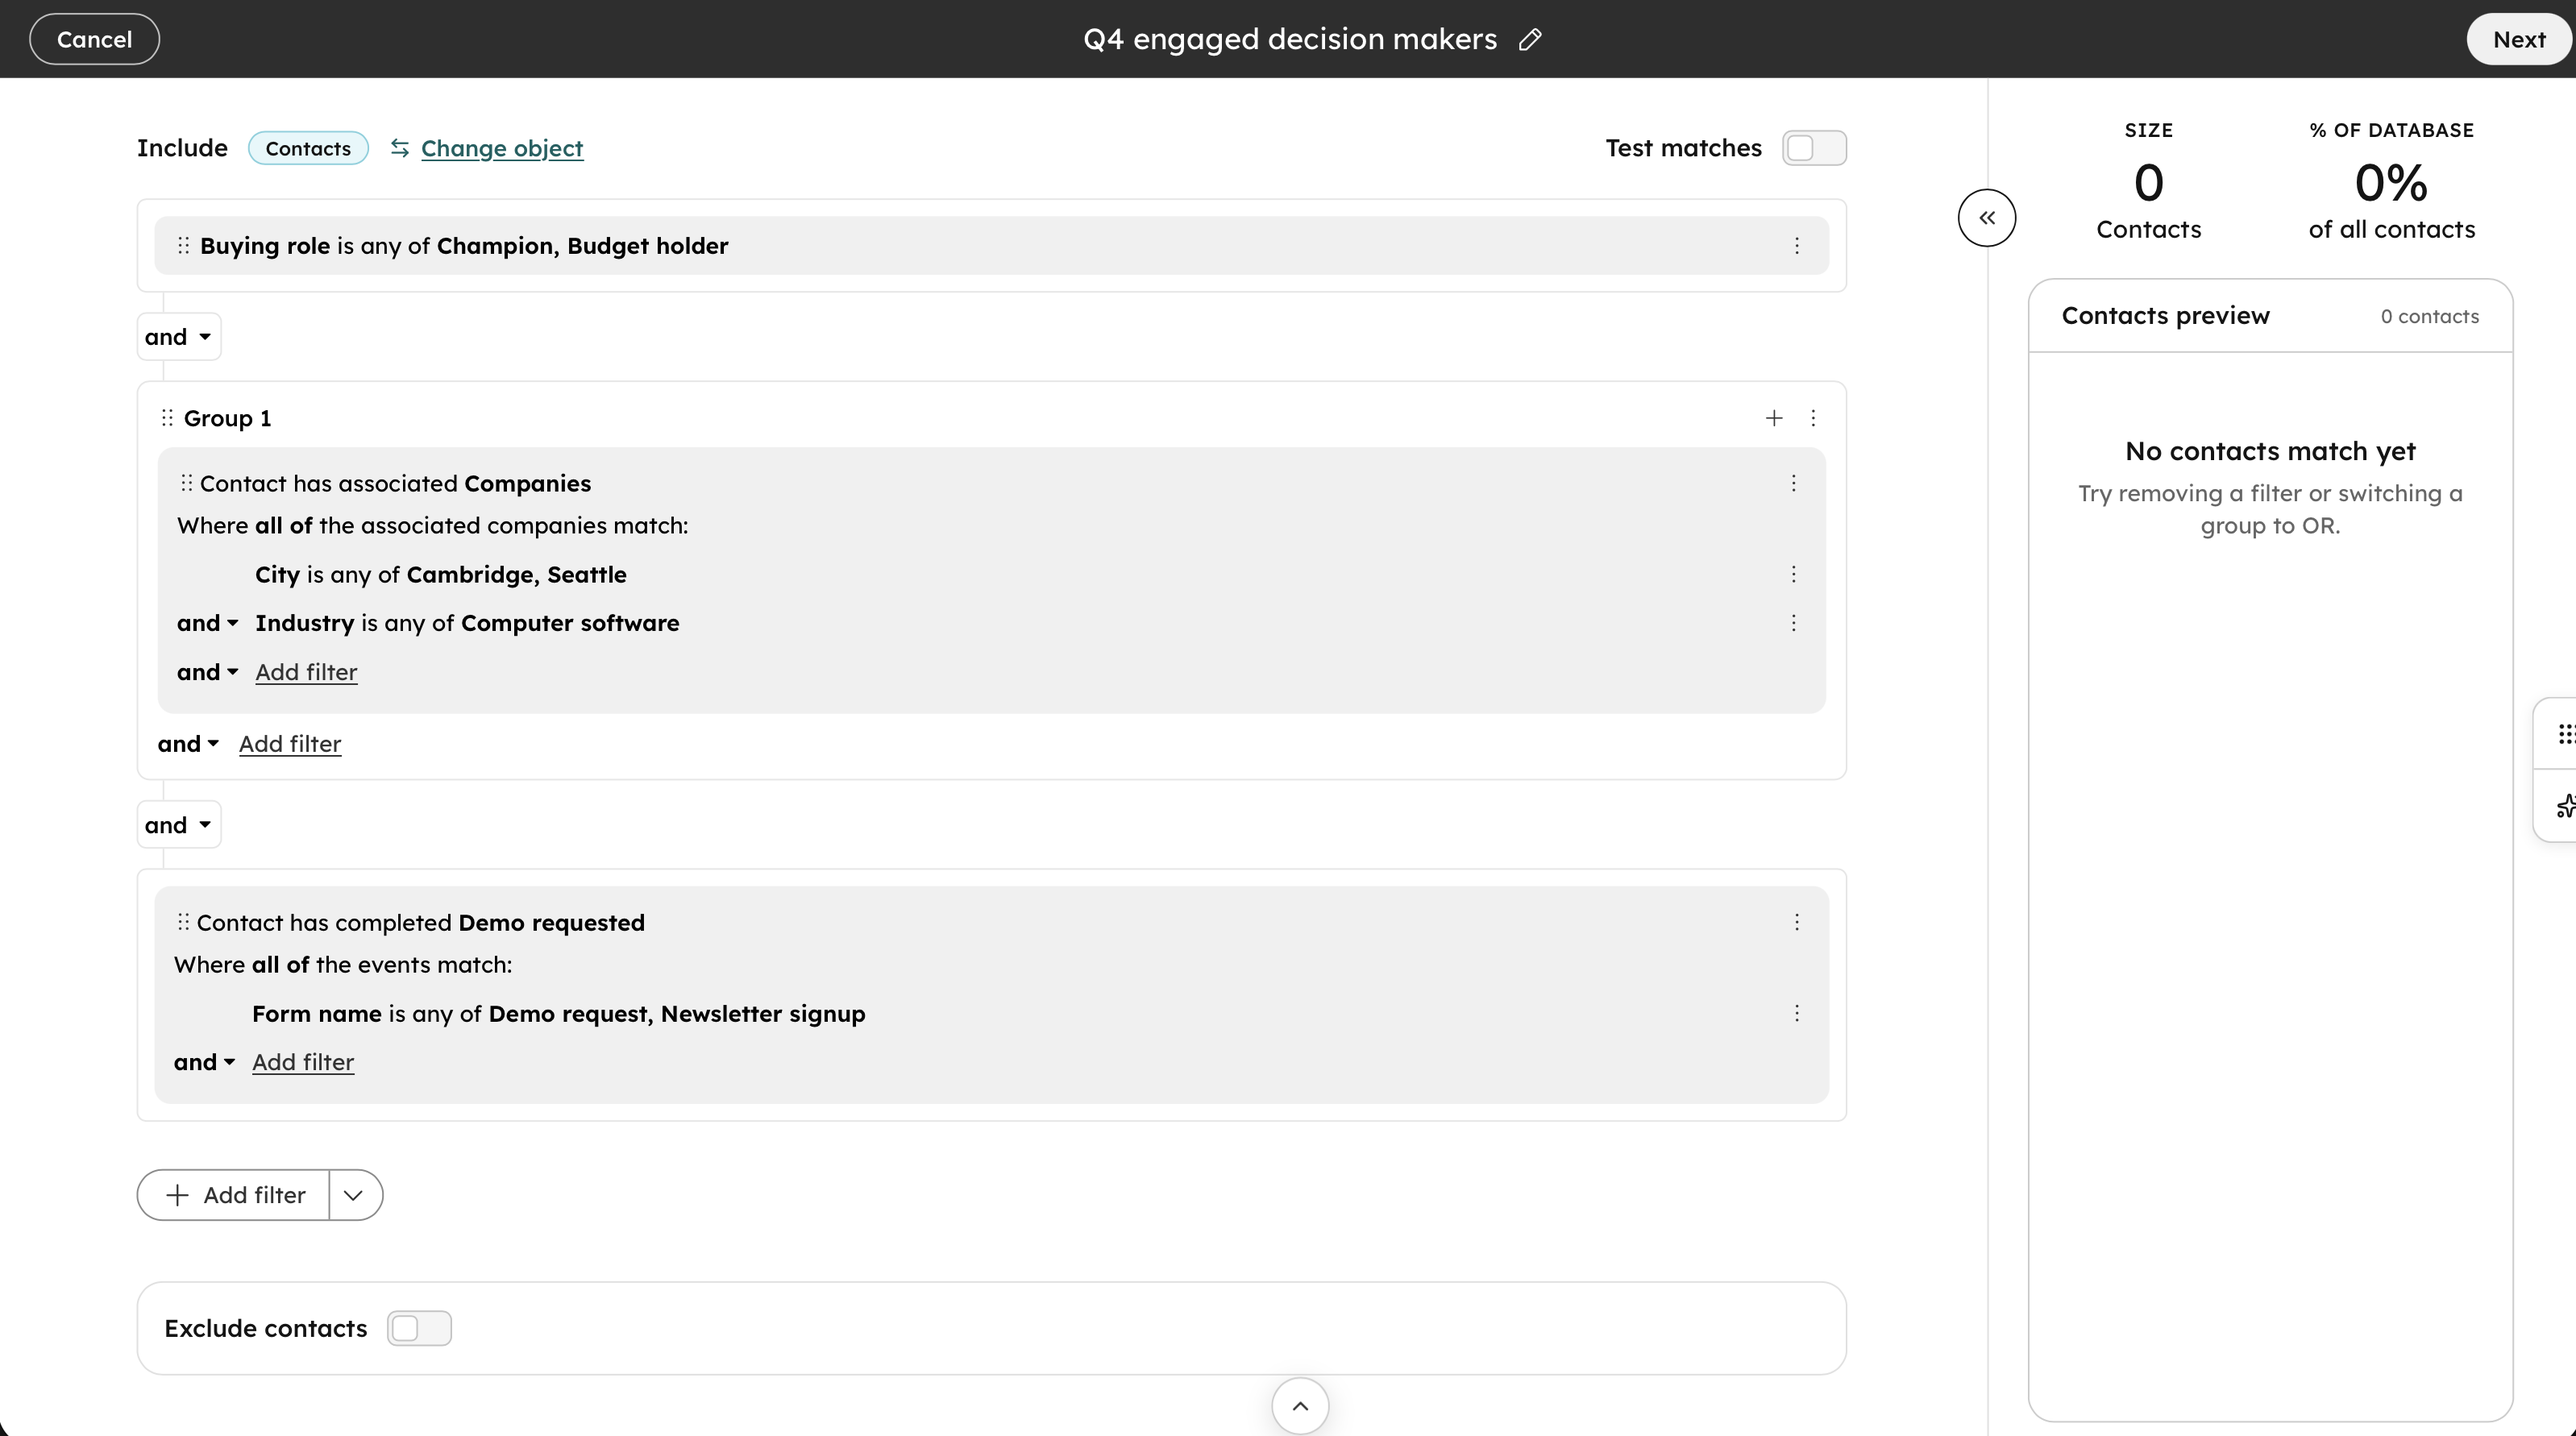
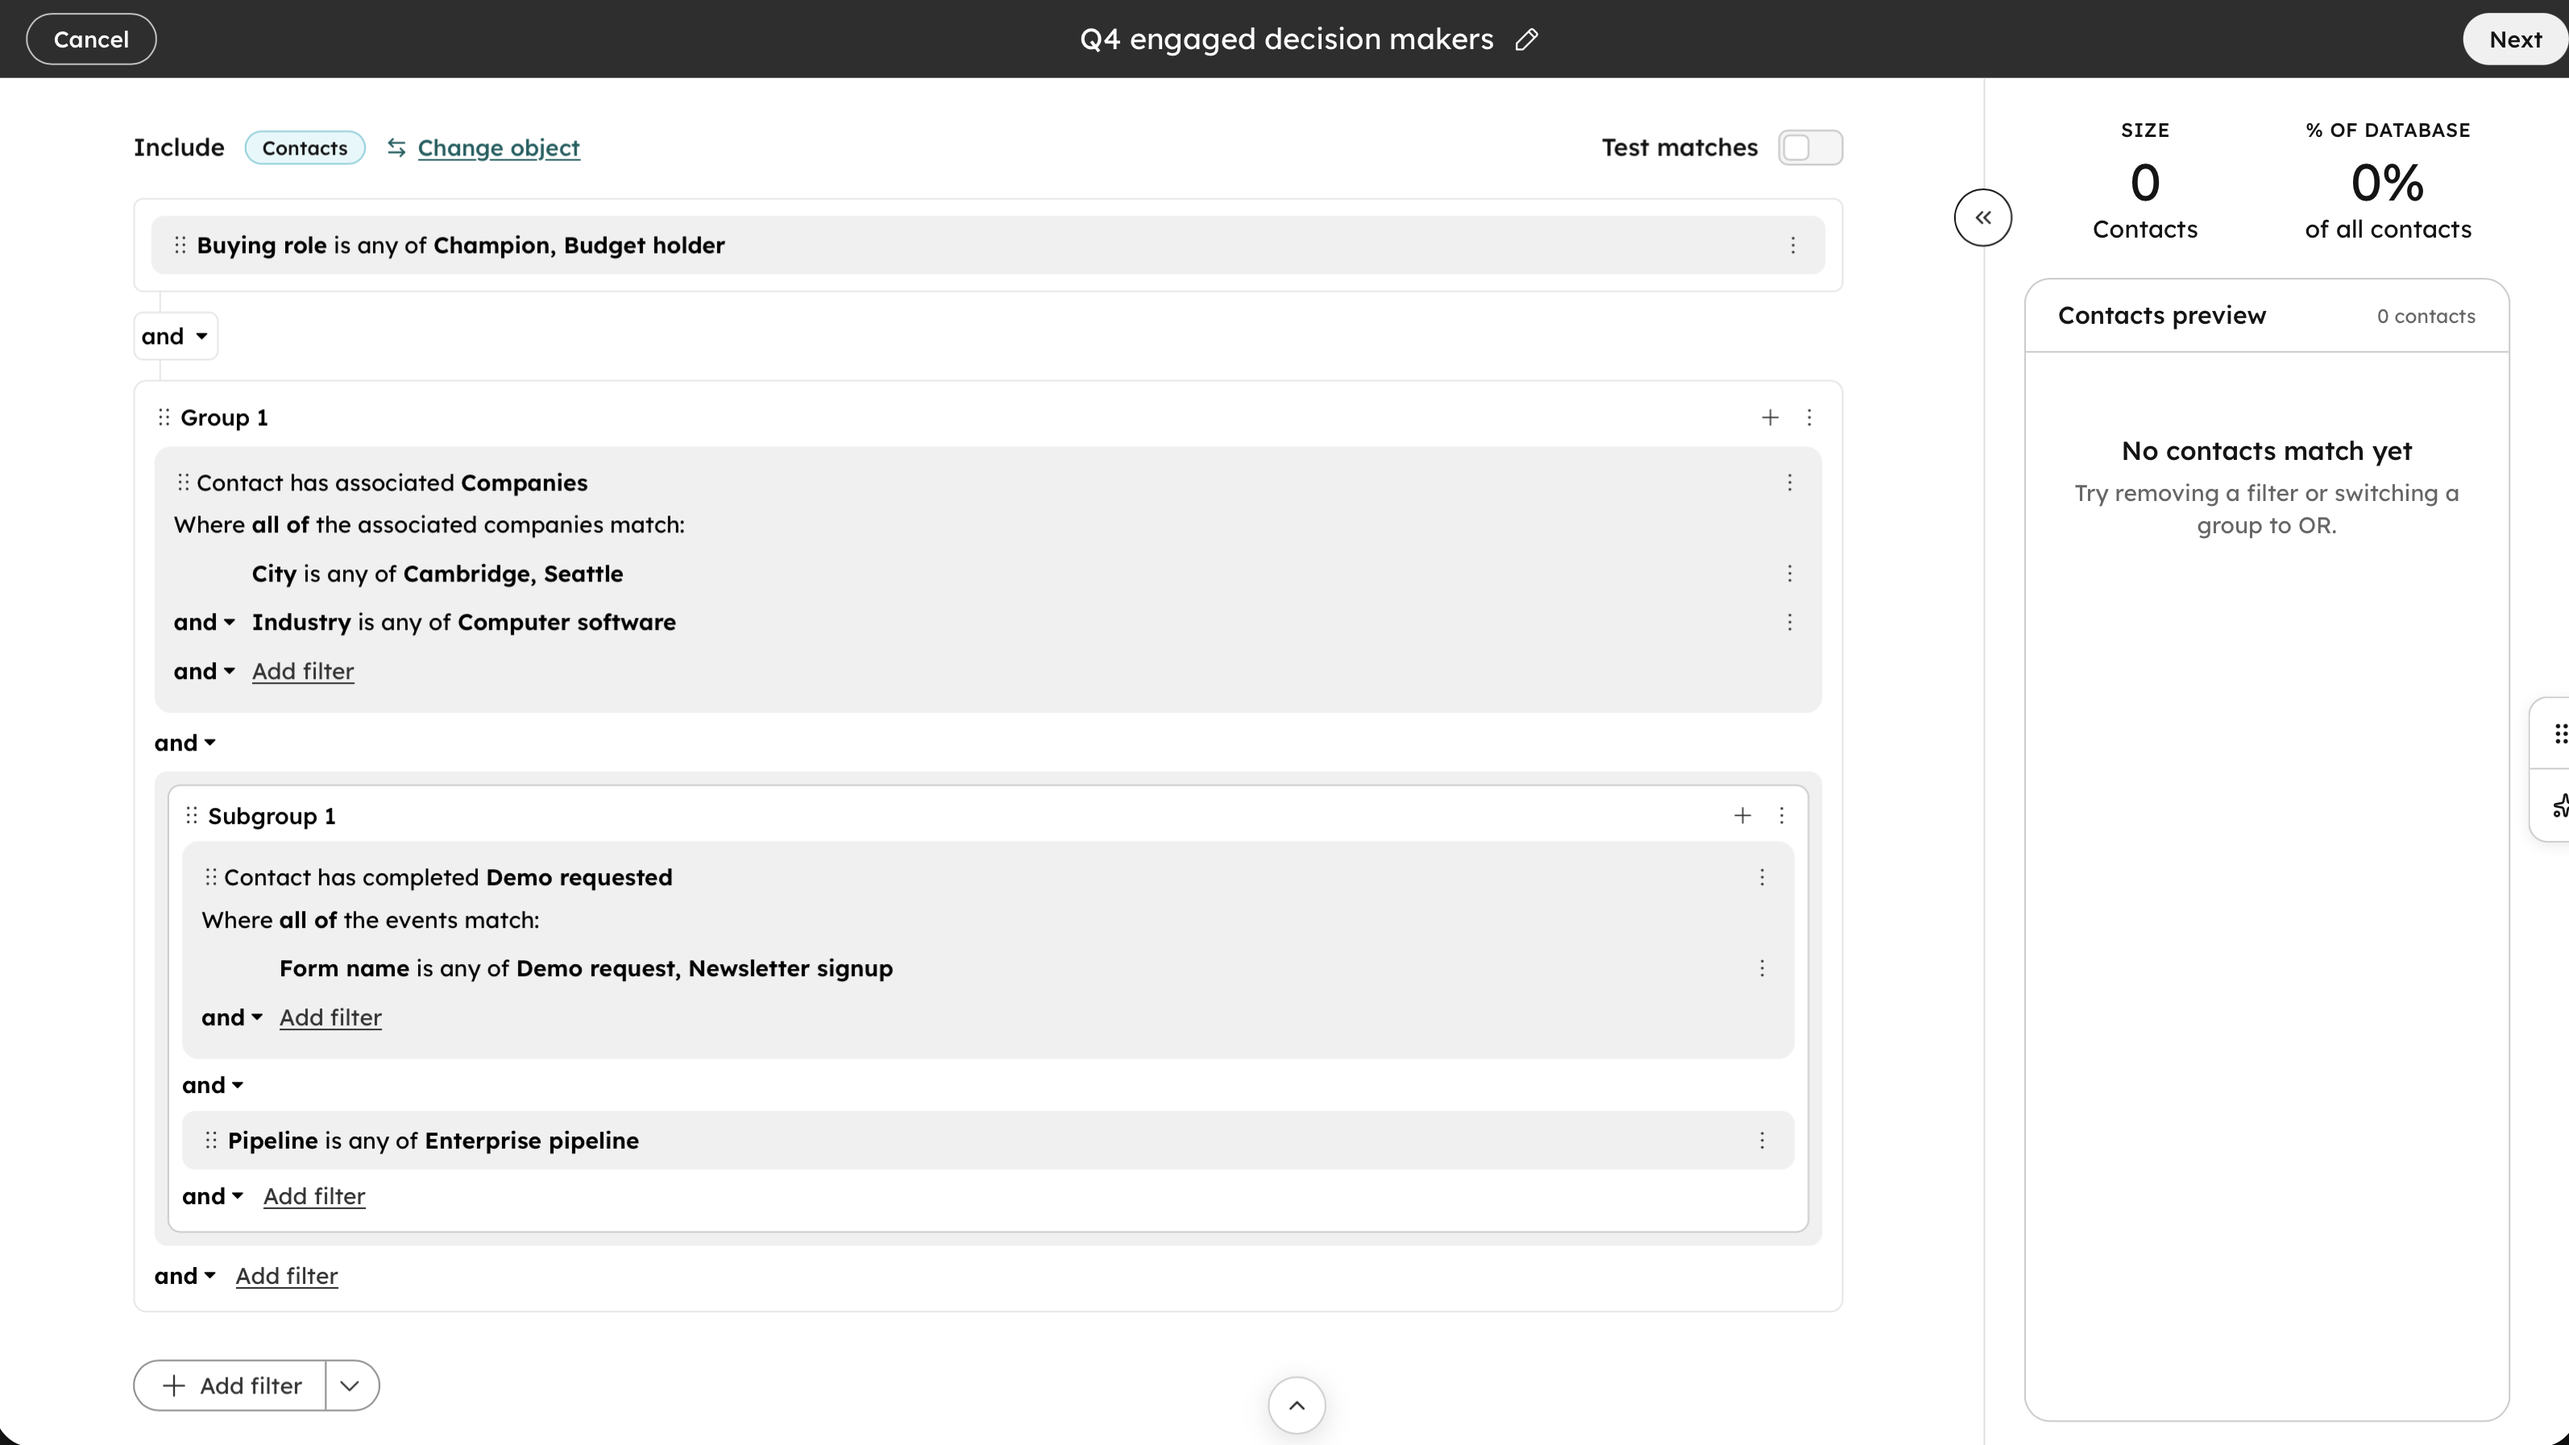
Filters: underline tabs, smaller context images, new Segment shot, demo links to Vercel
Claude-Session: https://claude.ai/code/session_01GyDvf2zmgpJcW5A75ozgYg

diff --git a/work/filters/index.html b/work/filters/index.html
@@ -463,7 +463,7 @@
         </div>
         <div role="tabpanel" id="ctx-workflow" aria-labelledby="ctx-tab-workflow"><img src="img/context-workflow.png" alt="Workflow editor with the Triggers panel open. The enrollment filters use the new editor: a form submission channel condition, a group with form type and form name, and a contact owner condition." width="3194" height="1782" loading="lazy"></div>
         <div role="tabpanel" id="ctx-crm" aria-labelledby="ctx-tab-crm" hidden><img src="img/context-crm.png" alt="Contacts index page with the All filters panel open on the right, showing two filter groups, one with a nested subgroup." width="3196" height="1696" loading="lazy"></div>
-        <div role="tabpanel" id="ctx-segment" aria-labelledby="ctx-tab-segment" hidden><img src="img/context-segment.png" alt="Segment builder with filters for buying role, associated companies and a completed Demo requested event, next to the contacts preview." width="3196" height="1782" loading="lazy"></div>
+        <div role="tabpanel" id="ctx-segment" aria-labelledby="ctx-tab-segment" hidden><img src="img/context-segment.png" alt="Segment builder with filters for buying role and associated companies, and a subgroup with a completed Demo requested event and an Enterprise pipeline condition, next to the contacts preview." width="3188" height="1794" loading="lazy"></div>
       </div>
     </section>
 
@@ -536,7 +536,7 @@
         <div class="uf-decision">
           <div class="uf-decision__head">
             <h3>Design exploration for NL filtering</h3>
-            <a class="uf-button uf-button--sm" href="https://claude.ai/artifact/Qapa5vPnfeKegKHPkg5sXf" target="_blank" rel="noopener">Open the live demo →</a>
+            <a class="uf-button uf-button--sm" href="https://filter-prototype-zeta.vercel.app/#nl" target="_blank" rel="noopener">Open the live demo →</a>
           </div>
           <figure class="uf-shot uf-gif"><img src="img/nl-filtering.gif" alt="Recording: typing 'My best customers in California' to Breeze, answering its question about what 'best' means, adding that as context, and the filter editor filling in four conditions." width="1000" height="899" loading="lazy"></figure>
         </div>
@@ -544,7 +544,7 @@
         <div class="uf-decision">
           <div class="uf-decision__head">
             <h3>Design exploration for subquery</h3>
-            <a class="uf-button uf-button--sm" href="https://claude.ai/artifact/Qapa5vPnfeKegKHPkg5sXf" target="_blank" rel="noopener">Open the live demo →</a>
+            <a class="uf-button uf-button--sm" href="https://filter-prototype-zeta.vercel.app/#phase2" target="_blank" rel="noopener">Open the live demo →</a>
           </div>
           <figure class="uf-shot uf-gif"><img src="img/subquery.gif" alt="Recording: adding a filter on associated deals with 'Count or calculate from records', setting it to the sum of deal amount from deals with the Decision maker label where deal stage is Closed won, then entering a value." width="1000" height="675" loading="lazy"></figure>
         </div>

diff --git a/work/filters/filters.css b/work/filters/filters.css
@@ -564,12 +564,14 @@ strong { font-weight: 600; }
 }
 
 /* ---------- Filters in context ---------- */
-.uf-tabs { display: flex; flex-wrap: wrap; gap: 8px; margin-bottom: 32px; }
-.uf-tabs button { padding: 8px 18px; border: 1px solid var(--uf-panel); border-radius: 999px; background: var(--uf-bg); color: var(--uf-ink); font: 600 15px/1.3 var(--uf-font); cursor: pointer; }
-.uf-tabs button:hover { border-color: var(--uf-ink-soft); }
-.uf-tabs button[aria-selected="true"] { background: var(--uf-dark); border-color: var(--uf-dark); color: #fff; }
-.uf-context [role="tabpanel"] img { display: block; width: 100%; height: auto; border-radius: 12px; box-shadow: 0 1px 2px rgba(22, 32, 46, .08), 0 8px 24px rgba(22, 32, 46, .08); }
+.uf-tabs { display: flex; gap: 32px; margin-bottom: 32px; border-bottom: 1px solid var(--uf-panel); }
+.uf-tabs button { margin-bottom: -1px; padding: 0 0 12px; border: 0; border-bottom: 2px solid transparent; background: none; color: var(--uf-ink-soft); font: 600 17px/1.3 var(--uf-font); cursor: pointer; }
+.uf-tabs button:hover { color: var(--uf-ink); }
+.uf-tabs button[aria-selected="true"] { color: var(--uf-ink); border-bottom-color: var(--uf-accent); }
+.uf-context .uf-tabs, .uf-context [role="tabpanel"] { width: 70%; }
+@media (max-width: 800px) { .uf-context .uf-tabs, .uf-context [role="tabpanel"] { width: 100%; } }
 @media (min-width: 1100px) { .uf-context .uf-wrap { max-width: 1280px; } }
+.uf-context [role="tabpanel"] img { display: block; width: 100%; height: auto; border-radius: 12px; box-shadow: 0 1px 2px rgba(22, 32, 46, .08), 0 8px 24px rgba(22, 32, 46, .08); }
 
 /* ---------- If I had more time ---------- */
 .uf-decision--boxed { padding: 40px; border: 1px solid var(--uf-line); border-radius: 16px; }
